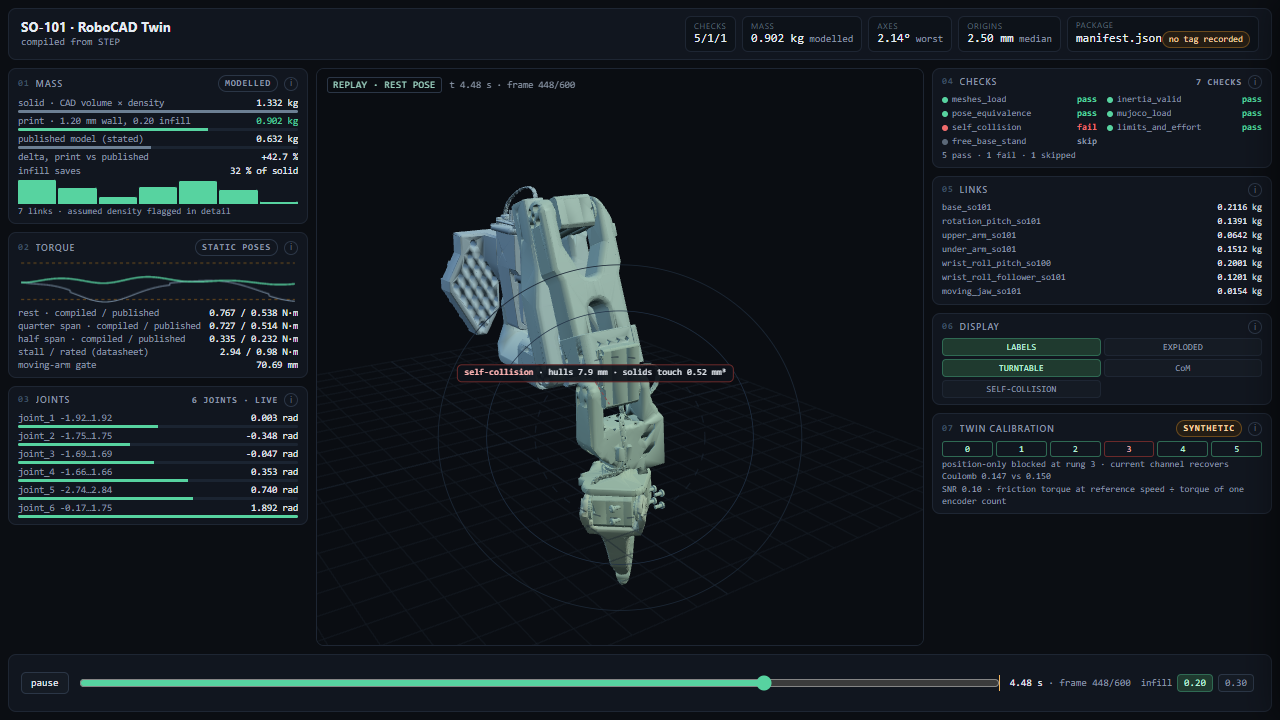
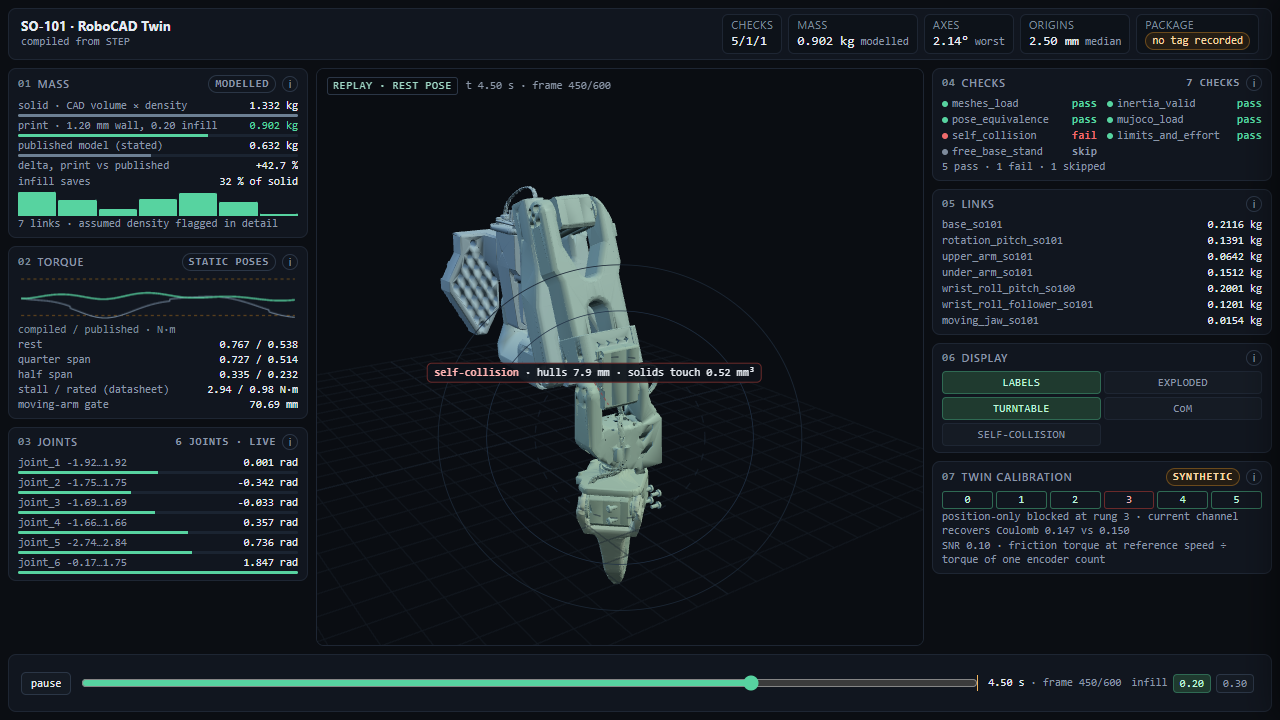
robocad: page — 11px type floor and 5.2:1 quiet grey
The design detector flagged the cockpit page with 28 findings, all of them
legibility: functional text between 8px and 10.5px, and --faint at 3.2:1 on
the panel colour. Both were real.

Type: every functional size is now 11px (KPI labels, status words, rung
pills, card headings, rows, chips, toggles, HUD, callout, footer controls);
card titles and the drawer body are 13px. Contrast: --faint #5b6878 ->
#7d8a9b, 5.2:1 on #11161f; the card number drops its #3d5265.

Two layout casualties of the bigger type fixed rather than left: the torque
rows repeated "compiled / published" in every label and ellipsised the pose
name, so the phrase is one caption above the rows; the package tile's pill was
clipped by the value line's ellipsis, so the pill is the value line and
"no tag recorded" survives.

Re-gated after the change: cockpit layout 5 passed at 1280x720, 1440x900,
1920x1080, check_page_numbers 32 tokens all tracing to the summary, page-text
2 passed, sections.test.mjs 11 passed. Screenshots regenerated. No figure
changed.

diff --git a/docs/demo/page/index.html b/docs/demo/page/index.html
@@ -7,7 +7,9 @@
 <style>
   :root{
     --bg:#0b0e13; --panel:#11161f; --panel2:#0d1219; --line:#1e2633; --line2:#2b3646;
-    --ink:#e6ebf2; --dim:#8b97a8; --faint:#5b6878; --accent:#57d3a0; --warn:#f2b45c; --fail:#ef6b6b;
+    /* --faint is the quietest text colour and still clears 4.5:1 on --panel (5.2:1); the values
+       below it are bars and dots, which carry no text. --faint #5b6878 measured 3.2:1. */
+    --ink:#e6ebf2; --dim:#8b97a8; --faint:#7d8a9b; --accent:#57d3a0; --warn:#f2b45c; --fail:#ef6b6b;
     --mono:ui-monospace,SFMono-Regular,Menlo,Consolas,monospace;
     --gap:8px;
   }
@@ -23,15 +25,18 @@
     border:1px solid var(--line);border-radius:8px;background:var(--panel);padding:0 12px}
   .product{display:flex;flex-direction:column;justify-content:center;min-width:0}
   .product b{font-size:13px;font-weight:650;letter-spacing:.01em;white-space:nowrap}
-  .product span{font-size:10px;color:var(--dim);font-family:var(--mono);white-space:nowrap;
+  .product span{font-size:11px;color:var(--dim);font-family:var(--mono);white-space:nowrap;
     overflow:hidden;text-overflow:ellipsis}
   #kpis{display:flex;gap:6px;margin-left:auto;min-width:0;overflow:hidden}
   .kpi{border:1px solid var(--line);border-radius:6px;background:var(--panel2);padding:3px 8px;
     min-width:0;display:flex;flex-direction:column;justify-content:center}
-  .kpi .k{font-size:8px;letter-spacing:.08em;color:var(--faint);text-transform:uppercase;white-space:nowrap}
-  .kpi .v{font-family:var(--mono);font-size:12px;white-space:nowrap;color:var(--ink)}
-  .kpi .v em{font-style:normal;color:var(--dim);font-size:10px}
-  .pill{display:inline-block;border-radius:10px;padding:0 6px;font-size:9px;line-height:15px;
+  /* 11 px is the floor for every piece of functional text on this page, including these labels: they
+     are read off a projector, and 8 px caps at arm's length is not text, it is texture. */
+  .kpi .k{font-size:11px;letter-spacing:.04em;color:var(--faint);text-transform:uppercase;white-space:nowrap}
+  .kpi .v{font-family:var(--mono);font-size:13px;white-space:nowrap;color:var(--ink);
+    overflow:hidden;text-overflow:ellipsis;max-width:150px}
+  .kpi .v em{font-style:normal;color:var(--dim);font-size:11px}
+  .pill{display:inline-block;border-radius:10px;padding:0 6px;font-size:11px;line-height:16px;
     border:1px solid var(--line2);color:var(--dim);white-space:nowrap;font-family:var(--mono)}
   .pill.ok{border-color:#2f6a53;color:#bff3dc;background:#17241f}
   .pill.no{border-color:#6b2a2a;color:#f3b6b6;background:#241617}
@@ -45,19 +50,20 @@
     display:flex;flex-direction:column;min-height:0;min-width:0;overflow:hidden;padding:6px 9px}
   /* the flash the voice leaves behind: a card it asked for says so */
   .nav-flash,.flash{outline:2px solid var(--accent);outline-offset:-1px;background:#12211d}
-  .card h2{font-size:9px;font-weight:600;letter-spacing:.09em;text-transform:uppercase;color:var(--dim);
-    margin:0 0 4px;display:flex;align-items:center;gap:6px;min-width:0;flex:none}
-  .card h2 .num{font-family:var(--mono);color:#3d5265;font-size:9px}
+  .card h2{font-size:11px;font-weight:600;letter-spacing:.06em;text-transform:uppercase;color:var(--dim);
+    margin:0 0 5px;display:flex;align-items:center;gap:6px;min-width:0;flex:none}
+  .card h2 .num{font-family:var(--mono);color:var(--faint);font-size:11px}
   .card h2 .grow{flex:1;min-width:0;overflow:hidden;text-overflow:ellipsis;white-space:nowrap}
   .card h2 button.i{border:1px solid var(--line2);background:none;color:var(--faint);border-radius:50%;
-    width:14px;height:14px;font-size:9px;line-height:1;cursor:pointer;padding:0;flex:none}
+    width:16px;height:16px;font-size:11px;line-height:1;cursor:pointer;padding:0;flex:none}
   .card h2 button.i:hover{color:var(--ink);border-color:var(--accent)}
   .card .body{flex:1;min-height:0;overflow:hidden;display:flex;flex-direction:column;gap:1px}
-  .row{display:flex;align-items:baseline;gap:6px;min-width:0;font-family:var(--mono);font-size:9.5px;
-    line-height:13px}
+  .row{display:flex;align-items:baseline;gap:6px;min-width:0;font-family:var(--mono);font-size:11px;
+    line-height:15px}
   .row .l{flex:1;min-width:0;color:var(--dim);overflow:hidden;text-overflow:ellipsis;white-space:nowrap}
   .row .v{color:var(--ink);white-space:nowrap}
   .row .v.acc{color:var(--accent)}
+  .cap{font-family:var(--mono);font-size:11px;line-height:15px;color:var(--faint);flex:none}
   .bar{height:3px;background:#1b2431;border-radius:2px;overflow:hidden;flex:none}
   .bar i{display:block;height:100%;background:var(--accent)}
   .bar.pub i{background:#6c7f93}
@@ -66,32 +72,32 @@
   .minis div{flex:1;background:#243040;border-radius:1px 1px 0 0;min-height:2px}
   .minis div.hi{background:#57d3a0}
   .checkgrid{display:grid;grid-template-columns:1fr 1fr;gap:1px 10px;align-content:start}
-  .crow{display:flex;align-items:center;gap:4px;font-family:var(--mono);font-size:9px;line-height:13px;
+  .crow{display:flex;align-items:center;gap:4px;font-family:var(--mono);font-size:11px;line-height:15px;
     min-width:0;cursor:pointer;background:none;border:0;color:var(--ink);padding:0;text-align:left}
   .crow .n{flex:1;min-width:0;overflow:hidden;text-overflow:ellipsis;white-space:nowrap;color:var(--dim)}
   .dot{width:6px;height:6px;border-radius:50%;flex:none}
   .dot.pass{background:var(--accent)} .dot.fail{background:var(--fail)}
   .dot.skipped{background:var(--faint)} .dot.warn{background:var(--warn)}
-  .st{font-weight:600;font-size:8.5px;letter-spacing:.04em}
+  .st{font-weight:600;font-size:11px;letter-spacing:.02em}
   .st-pass{color:var(--accent)} .st-fail{color:var(--fail)}
   .st-skipped,.st-skip{color:var(--dim)} .st-warn{color:var(--warn)}
   .chiplist{display:flex;flex-direction:column;gap:1px;min-height:0}
-  .chip{display:flex;align-items:center;gap:6px;font-family:var(--mono);font-size:9px;line-height:13px;
+  .chip{display:flex;align-items:center;gap:6px;font-family:var(--mono);font-size:11px;line-height:15px;
     min-width:0;background:none;border:0;color:var(--ink);padding:0;cursor:pointer;text-align:left}
   .chip .n{flex:1;min-width:0;overflow:hidden;text-overflow:ellipsis;white-space:nowrap;color:var(--dim)}
   .chip .m{color:var(--ink);white-space:nowrap}
   .chip.on .n{color:var(--accent)}
   .togs{display:grid;grid-template-columns:1fr 1fr;gap:3px}
   .tog{border:1px solid var(--line);border-radius:4px;background:#151b24;color:var(--dim);
-    font-family:var(--mono);font-size:8.5px;letter-spacing:.04em;padding:3px 4px;cursor:pointer;
+    font-family:var(--mono);font-size:11px;letter-spacing:.02em;padding:4px 4px;cursor:pointer;
     text-align:center;white-space:nowrap;overflow:hidden;text-overflow:ellipsis}
   .tog[aria-pressed="true"]{background:#1f3a2f;border-color:#2f6a53;color:#bff3dc}
   .rungs{display:flex;gap:3px;flex:none}
-  .rung{flex:1;text-align:center;font-family:var(--mono);font-size:8.5px;line-height:14px;border-radius:3px;
+  .rung{flex:1;text-align:center;font-family:var(--mono);font-size:11px;line-height:16px;border-radius:3px;
     border:1px solid var(--line2);color:var(--dim);padding:0;cursor:pointer;background:none}
   .rung.ok{border-color:#2f6a53;color:#bff3dc}
   .rung.no{border-color:#6b2a2a;color:#f3b6b6}
-  .mono{font-family:var(--mono);font-size:9px;line-height:12px;color:var(--dim);overflow:hidden;
+  .mono{font-family:var(--mono);font-size:11px;line-height:14px;color:var(--dim);overflow:hidden;
     flex:none;display:-webkit-box;-webkit-line-clamp:2;-webkit-box-orient:vertical}
   .mono b{color:var(--ink);font-weight:500}
   /* the 3D stage */
@@ -100,11 +106,11 @@
   #stage canvas{display:block;width:100%;height:100%}
   #rings{position:absolute;inset:0;pointer-events:none;width:100%;height:100%}
   #leader{position:absolute;inset:0;pointer-events:none;width:100%;height:100%;overflow:visible}
-  #hud{position:absolute;left:10px;top:8px;font-family:var(--mono);font-size:9.5px;color:var(--dim);
+  #hud{position:absolute;left:10px;top:8px;font-family:var(--mono);font-size:11px;color:var(--dim);
     display:flex;gap:8px;align-items:center}
   #hud .mode{border:1px solid var(--line2);border-radius:3px;padding:1px 5px;color:#9fd8c6;letter-spacing:.05em}
   #callout{position:absolute;left:0;top:0;transform:translate(-50%,-100%);pointer-events:none;
-    font-family:var(--mono);font-size:9px;line-height:1.3;color:var(--ink);
+    font-family:var(--mono);font-size:11px;line-height:1.3;color:var(--ink);
     background:rgba(13,18,25,.9);border:1px solid #6b2a2a;border-radius:5px;padding:2px 6px;white-space:nowrap}
   #callout b{color:#ffb4b4;font-weight:600}
   #load{position:absolute;inset:0;display:grid;place-items:center;color:var(--dim);
@@ -113,15 +119,15 @@
   footer{grid-column:1/-1;display:flex;align-items:center;gap:10px;min-width:0;
     border:1px solid var(--line);border-radius:8px;background:var(--panel);padding:0 12px}
   footer .ctl{border:1px solid var(--line2);background:#151b24;color:var(--ink);border-radius:5px;
-    font-family:var(--mono);font-size:10px;padding:4px 9px;cursor:pointer}
+    font-family:var(--mono);font-size:11px;padding:4px 9px;cursor:pointer}
   #scrub{position:relative;flex:1;min-width:60px;height:20px;display:flex;align-items:center}
   #scrubber{width:100%;accent-color:var(--accent);height:14px;margin:0}
   #marker{position:absolute;right:0;top:2px;bottom:2px;width:1px;background:var(--warn);pointer-events:none}
-  #clock{font-family:var(--mono);font-size:10px;color:var(--dim);white-space:nowrap}
+  #clock{font-family:var(--mono);font-size:11px;color:var(--dim);white-space:nowrap}
   #clock b{color:var(--ink);font-weight:500}
-  #revswitch{display:flex;align-items:center;gap:5px;font-family:var(--mono);font-size:9.5px;color:var(--dim)}
+  #revswitch{display:flex;align-items:center;gap:5px;font-family:var(--mono);font-size:11px;color:var(--dim)}
   #revswitch button{border:1px solid var(--line2);background:#151b24;color:var(--dim);border-radius:4px;
-    font-family:var(--mono);font-size:10px;padding:2px 6px;cursor:pointer}
+    font-family:var(--mono);font-size:11px;padding:2px 6px;cursor:pointer}
   #revswitch button[aria-pressed="true"]{background:#1f3a2f;border-color:#2f6a53;color:#bff3dc}
   #revdelta{color:var(--warn);white-space:nowrap}
   /* drawer */
@@ -130,14 +136,14 @@
     transform:translateX(102%);transition:transform .22s ease;display:flex;flex-direction:column;
     z-index:20;padding:12px 14px}
   #drawer.open{transform:translateX(0)}
-  #drawer h3{margin:0 0 2px;font-size:12px;letter-spacing:.02em}
-  #drawer .sub{font-size:10px;color:var(--faint);font-family:var(--mono);margin-bottom:10px}
-  #dbody{flex:1;min-height:0;overflow:auto;font-size:11.5px;line-height:1.5;color:#cfd8e3}
+  #drawer h3{margin:0 0 2px;font-size:13px;letter-spacing:.02em}
+  #drawer .sub{font-size:11px;color:var(--faint);font-family:var(--mono);margin-bottom:10px}
+  #dbody{flex:1;min-height:0;overflow:auto;font-size:13px;line-height:1.5;color:#cfd8e3}
   #dbody p{margin:0 0 8px}
-  #dbody .kv{font-family:var(--mono);font-size:10.5px;color:var(--dim);margin:0 0 6px}
+  #dbody .kv{font-family:var(--mono);font-size:11px;color:var(--dim);margin:0 0 6px}
   #dbody .kv b{color:var(--ink);font-weight:500}
   #dclose{position:absolute;top:10px;right:12px;border:1px solid var(--line2);background:none;color:var(--dim);
-    border-radius:4px;font-family:var(--mono);font-size:10px;padding:2px 7px;cursor:pointer}
+    border-radius:4px;font-family:var(--mono);font-size:11px;padding:2px 7px;cursor:pointer}
   #scrim{position:fixed;inset:0;background:rgba(0,0,0,.35);opacity:0;pointer-events:none;
     transition:opacity .22s;z-index:19}
   #scrim.on{opacity:1;pointer-events:auto}
@@ -395,7 +401,10 @@
     add("kpi-mass", "mass", fixed(DATA.masses.print, 3) + " kg", mk("em", null, " modelled"));
     add(null, "axes", fixed(DATA.residuals.axisWorst, 2) + "°", mk("em", null, " worst"));
     add(null, "origins", fixed(DATA.residuals.originMedian, 2) + " mm", mk("em", null, " median"));
-    add("kpi-package", "package", DATA.tag ? DATA.tag : "manifest.json",
+    // No tag or digest exists in the page payloads, so the tile says so rather than naming a hash
+    // nobody can check. The pill is the value line: beside a filename it overflowed the tile, and
+    // the ellipsis ate the words "no tag recorded", which is the one phrase here that must survive.
+    add("kpi-package", "package", DATA.tag ? DATA.tag : "",
       mk("span", "pill " + (DATA.tag ? "ok" : "wa"), DATA.tag ? "tagged" : "no tag recorded"));
   })();
 
@@ -462,9 +471,15 @@
     // the moving-arm curves describe two different poses, so the rows below them are static ones
     el("t-badge").textContent = DATA.torque.dynamicComparable ? "trajectory" : "static poses";
     var statics = el("t-static");
+    // "compiled / published" is stated once, above the rows, because repeating it in every row
+    // ellipsised the pose name at 11 px and left three rows that all read "quarter span · compiled / p…"
+    var cap = document.createElement("div");
+    cap.className = "cap";
+    cap.textContent = "compiled / published · N·m";
+    statics.appendChild(cap);
     DATA.torque.poses.forEach(function(p){
-      statics.appendChild(row(p.pose + " · compiled / published",
-        fixed(p.compiled, 3) + " / " + fixed(p.published, 3) + " N·m"));
+      statics.appendChild(row(p.pose,
+        fixed(p.compiled, 3) + " / " + fixed(p.published, 3)));
     });
     statics.appendChild(row("stall / rated (datasheet)",
       fixed(DATA.torque.stall, 2) + " / " + fixed(DATA.torque.rated, 2) + " N·m"));

diff --git a/docs/demo/FINAL_STATUS.md b/docs/demo/FINAL_STATUS.md
@@ -711,3 +711,23 @@ and the freeze actually allow.
   v1.3's page; v1.3 is frozen and was not rebuilt. The cockpit page exists in the tree only. The
   page-text test reads the tree page, as it always did, so the divergence is expected rather than
   silent.
+
+### The legibility pass, after the design hook flagged the page
+
+The design detector returned 28 findings on the new page, all of one kind: functional text under the
+11 px floor and a quiet grey below the 4.5:1 contrast bar. Both were real, and both were mine.
+
+- **Type floor.** Every functional size was between 8 px and 10.5 px (8 px KPI labels, 8.5 px status
+  words and rung pills, 9 px card headings and rows). All of it is now **11 px**, and the drawer body
+  and card titles 13 px. The one-screen gate was re-run after the change and still passes at all three
+  viewports, which was the risk: the page was dense enough that bigger type could have reflowed it.
+- **Contrast.** `--faint` was `#5b6878`, which measures **3.2:1** on `--panel` — below AA for body
+  text. It is now `#7d8a9b` at **5.2:1**. The card number that used `#3d5265` now uses `--faint`.
+- **Two things the bigger type broke, fixed rather than accepted.** The torque rows repeated
+  "compiled / published" in every label, so at 11 px all three read "quarter span · compiled / p…";
+  the phrase is now a single caption above the rows. The package tile's pill was being clipped by the
+  tile's own ellipsis, so the pill is the value line: "no tag recorded" survives intact.
+
+`verified-ran` after the pass: cockpit layout **5 passed**, `check_page_numbers.py` "32 numeric tokens
+all trace to the summary", page-text test **2 passed**, `sections.test.mjs` **11 passed**. Screenshots
+regenerated. No figure changed; only what the figures are set in.
